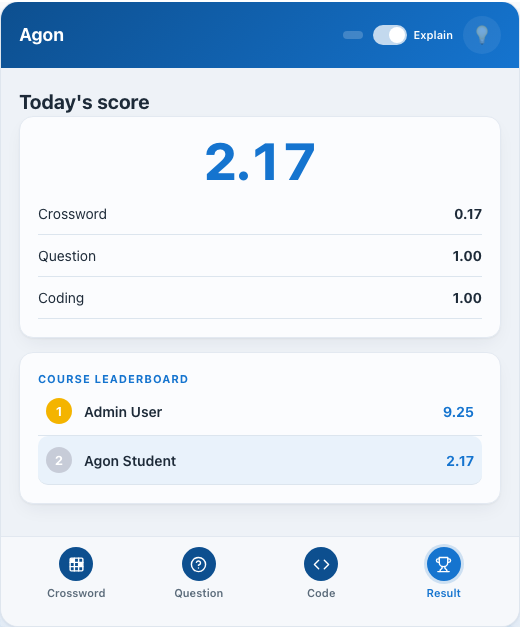
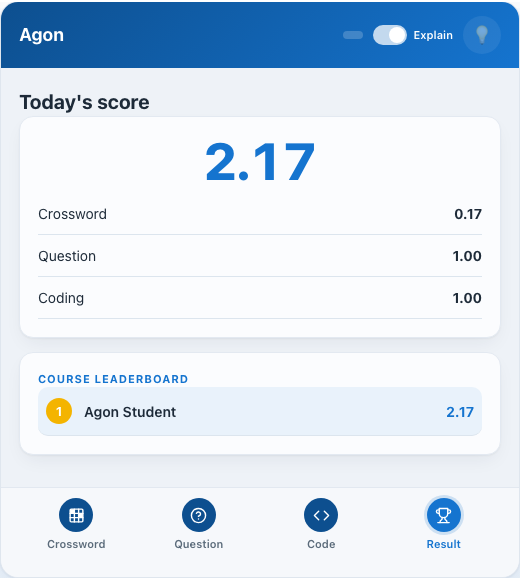
Cleaned the stale data and retested

diff --git a/amd/build/bank.min.js b/amd/build/bank.min.js
@@ -361,12 +361,13 @@ define(['mod_agon/crossword', 'core/ajax', 'core/notification'], function(CW, Aj
                 }, updateStatus);
                 p.body.appendChild(sv.row);
 
-                // Prefill from saved layout (map built words -> {word, clue}).
+                // Prefill from the saved layout only; a new activity starts empty
+                // (renderManual seeds three blank word rows for the teacher to fill).
                 var saved = D.crossword || {};
                 var initWords = (saved.words || []).map(function(w) { return {word: w.word, clue: w.clue}; });
                 var initObj = initWords.length ? {words: initWords, grading: saved.grading} : null;
                 renderManual(initObj);
-                jsonEl.value = pretty(initObj || {grading: 'custom', words: [{word: 'TOKEN', clue: 'Smallest unit of text after splitting'}]});
+                jsonEl.value = pretty(initObj || {grading: 'custom', words: []});
                 updateStatus();
 
                 return {
@@ -461,9 +462,10 @@ define(['mod_agon/crossword', 'core/ajax', 'core/notification'], function(CW, Aj
                 }, updateStatus);
                 p.body.appendChild(sv.row);
 
+                // Prefill from saved content only; a new activity starts empty
+                // (renderManual seeds one blank question for the teacher to fill).
                 var saved = D.question || {};
-                var initObj = (saved.questions && saved.questions.length) ? saved
-                    : {questions: [{question: 'Which process splits text into tokens?', options: ['Tokenization', 'Lemmatization', 'Normalization', 'Vectorization'], correct: 0, explanation: 'Tokenization breaks text into tokens.'}]};
+                var initObj = (saved.questions && saved.questions.length) ? saved : {questions: []};
                 renderManual(initObj);
                 jsonEl.value = pretty(initObj);
                 updateStatus();
@@ -551,9 +553,10 @@ define(['mod_agon/crossword', 'core/ajax', 'core/notification'], function(CW, Aj
                 }, updateStatus);
                 p.body.appendChild(sv.row);
 
+                // Prefill from saved content only; a new activity starts empty
+                // (renderManual seeds one blank sequence for the teacher to fill).
                 var saved = D.coding || {};
-                var initObj = (saved.sequences && saved.sequences.length) ? saved
-                    : {sequences: [{title: 'Tokenization', code: 'tokens = text.____()', blanks: ['split'], options: ['split', 'lower', 'len', 'join', 'strip'], explanation: 'str.split() breaks the text into a list of tokens.'}]};
+                var initObj = (saved.sequences && saved.sequences.length) ? saved : {sequences: []};
                 renderManual(initObj);
                 jsonEl.value = pretty(initObj);
                 updateStatus();

diff --git a/amd/src/bank.js b/amd/src/bank.js
@@ -361,12 +361,13 @@ define(['mod_agon/crossword', 'core/ajax', 'core/notification'], function(CW, Aj
                 }, updateStatus);
                 p.body.appendChild(sv.row);
 
-                // Prefill from saved layout (map built words -> {word, clue}).
+                // Prefill from the saved layout only; a new activity starts empty
+                // (renderManual seeds three blank word rows for the teacher to fill).
                 var saved = D.crossword || {};
                 var initWords = (saved.words || []).map(function(w) { return {word: w.word, clue: w.clue}; });
                 var initObj = initWords.length ? {words: initWords, grading: saved.grading} : null;
                 renderManual(initObj);
-                jsonEl.value = pretty(initObj || {grading: 'custom', words: [{word: 'TOKEN', clue: 'Smallest unit of text after splitting'}]});
+                jsonEl.value = pretty(initObj || {grading: 'custom', words: []});
                 updateStatus();
 
                 return {
@@ -461,9 +462,10 @@ define(['mod_agon/crossword', 'core/ajax', 'core/notification'], function(CW, Aj
                 }, updateStatus);
                 p.body.appendChild(sv.row);
 
+                // Prefill from saved content only; a new activity starts empty
+                // (renderManual seeds one blank question for the teacher to fill).
                 var saved = D.question || {};
-                var initObj = (saved.questions && saved.questions.length) ? saved
-                    : {questions: [{question: 'Which process splits text into tokens?', options: ['Tokenization', 'Lemmatization', 'Normalization', 'Vectorization'], correct: 0, explanation: 'Tokenization breaks text into tokens.'}]};
+                var initObj = (saved.questions && saved.questions.length) ? saved : {questions: []};
                 renderManual(initObj);
                 jsonEl.value = pretty(initObj);
                 updateStatus();
@@ -551,9 +553,10 @@ define(['mod_agon/crossword', 'core/ajax', 'core/notification'], function(CW, Aj
                 }, updateStatus);
                 p.body.appendChild(sv.row);
 
+                // Prefill from saved content only; a new activity starts empty
+                // (renderManual seeds one blank sequence for the teacher to fill).
                 var saved = D.coding || {};
-                var initObj = (saved.sequences && saved.sequences.length) ? saved
-                    : {sequences: [{title: 'Tokenization', code: 'tokens = text.____()', blanks: ['split'], options: ['split', 'lower', 'len', 'join', 'strip'], explanation: 'str.split() breaks the text into a list of tokens.'}]};
+                var initObj = (saved.sequences && saved.sequences.length) ? saved : {sequences: []};
                 renderManual(initObj);
                 jsonEl.value = pretty(initObj);
                 updateStatus();
